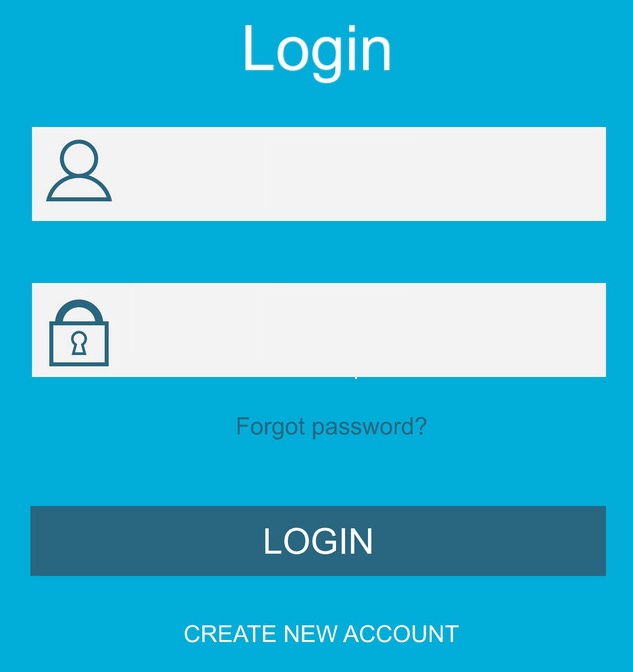
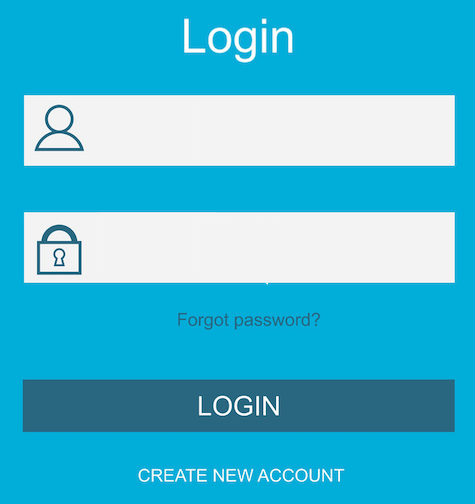
select portions of screen to enter in either email or password

diff --git a/game_view.py b/game_view.py
@@ -19,7 +19,7 @@ COLOR_BLACK = (0, 0, 0)
 COLOR_WHITE = (255, 255, 255)
 FPS = 60.0
 MENU_BACKGROUND_COLOR = (228, 55, 36)
-WINDOW_SIZE = (640, 480)
+WINDOW_SIZE = (800, 600)
 
 # -----------------------------------------------------------------------------
 # Init pygame
@@ -119,8 +119,6 @@ def login_function():
     
     :return: None
     """
-    # Draw random color
-    bg_color = random_color()
 
     # Reset main menu and disable
     # You also can set another menu, like a 'pause menu', or just use the same
@@ -130,13 +128,20 @@ def login_function():
 
     email = pygame_textinput.TextInput()
     password = pygame_textinput.TextInput()
+    login_view = pygame.image.load("images/login-copy.png")
+    bg_color = (21,156,207)  
+    surface.fill(bg_color)
 
+    email_bool = True
+    password_bool = False
+    
     while True:
         # Clock tick
         clock.tick(60)
 
         # Application events
         playevents = pygame.event.get()
+
         for e in playevents:
             if e.type == QUIT:
                 exit()
@@ -147,19 +152,41 @@ def login_function():
                     main_menu.mainloop(playevents)
                     # Quit this function, then skip to loop of main-menu on line 217
                     return
-                elif e.key != K_ESCAPE and main_menu.is_disabled():
-                    # Feed it with events every frame
-                    email.update(playevents)   
-                    password.update(playevents, passProtect=True)   
-                    surface.fill(bg_color)
-                    surface.blit(email.get_surface(), (10,10))  
-                    surface.blit(password.get_surface(), (10,40))  
-                elif e.key == K_RETURN and main_menu.is_disabled():
-                    surface.fill(bg_color)
+            elif e.type == MOUSEBUTTONDOWN:
+                mouse_pos = pygame.mouse.get_pos()
+                # print(mouse_pos)
+                if mouse_pos[0] in range(190,610) and mouse_pos[1] in range(148,210):
+                    email_bool = True
+                    password_bool = False
+                elif mouse_pos[0] in range(190,610) and mouse_pos[1] in range(266,322):
+                    email_bool = False
+                    password_bool = True
 
+                # elif e.key != K_ESCAPE and main_menu.is_disabled():
+                #     # Feed it with events every frame
+                      
+                # elif e.key == K_RETURN and main_menu.is_disabled():
+                #     surface.fill(bg_color)
+
+        
+        if email_bool:
+            email.update(playevents)   
+        if password_bool:
+            password.update(playevents, passProtect=True)
+            
+        surface.blit(login_view, ((WINDOW_SIZE[0] - login_view.get_size()[0]) / 2, (WINDOW_SIZE[1] - login_view.get_size()[1]) / 2))
+        surface.blit(email.get_surface(), (250,170))  
+        surface.blit(password.get_surface(), (250,290))
         pygame.display.flip()
 
+    return
+
 def new_account_function():
+    """
+    Create new account game function
+    
+    :return: None
+    """
 
     return
 
